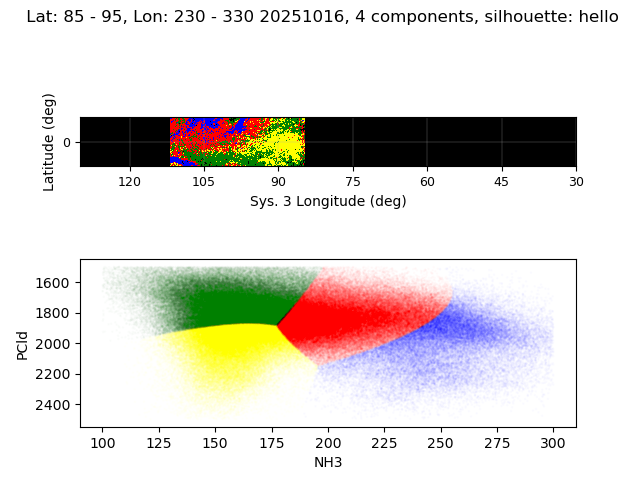
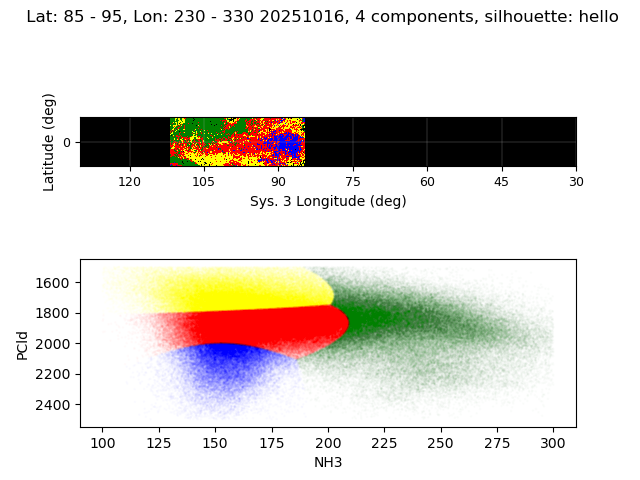
updte visualizations

Changed region(s): [[0.1875, 0.5312, 0.875, 0.875], [0.25, 0.2188, 0.5, 0.3438]]

diff --git a/scripts/plots/mapping.py b/scripts/plots/mapping.py
@@ -49,22 +49,21 @@ def plot_cluster_patch(patch, LatLims, LonLims, cmap, axis, v_min, v_max, title,
         cbar = fig.colorbar(show, ticks=tx, 
                    orientation='vertical',
                    ax=axis,fraction=0.046*im_ratio, pad=0.05)
-        #cbar.ax.set_yticklabels(np.around(tx,3))
+        cbar.ax.set_yticklabels(np.around(tx,3))
 
 
-        #cbar.set_ticks(tx)
-        #cbar.set_ticklabels(np.around(tx, 3))
-        #cbar.ax.tick_params(labelsize=6,color="k")#if iSession >1:
-        #cbar.ax.set_ylabel(cbar_title, size=6)#,labelpad=-20, y=0.5)
+        cbar.set_ticks(tx)
+        cbar.set_ticklabels(np.around(tx, 3))
+        cbar.ax.tick_params(labelsize=6,color="k")#if iSession >1:
+        cbar.ax.set_ylabel(cbar_title, size=6)#,labelpad=-20, y=0.5)
 
 
-        #cbar.ax.yaxis.set_label_coords(-1.5, 0.5)
-        #cbar.ax.yaxis.set_label_coords(-2.1, 0.5)
-        #if cbar_reverse:
-        #    cbar.ax.invert_yaxis()
+        cbar.ax.yaxis.set_label_coords(-1.5, 0.5)
+        cbar.ax.yaxis.set_label_coords(-2.1, 0.5)
+        #cbar.remove()
 
 
-def plot_patch(patch, LatLims, LonLims, cmap, axis, v_min, v_max, title, cm_num, fig = None, cbarplot = False, cbar_title = "test"):
+def plot_patch(patch, LatLims, LonLims, cmap, axis, v_min, v_max, title, cm_num, fig = None, cbarplot = True, cbar_title = "test", cbar_reverse = False):
     '''
     Purpose:
         to plot a patch with appropriate longitude/latitude scales
@@ -90,30 +89,31 @@ def plot_patch(patch, LatLims, LonLims, cmap, axis, v_min, v_max, title, cm_num,
     im_ratio = patch.shape[0]/patch.shape[1]
     
     if cbarplot:
+        print("hello world")
         cbar = fig.colorbar(show, ticks=tx, 
                    orientation='vertical',
                    ax=axis,fraction=0.046*im_ratio, pad=0.05)
-        #cbar.ax.set_yticklabels(np.around(tx,3))
+        cbar.ax.set_yticklabels(np.around(tx,3))
 
 
-        #cbar.set_ticks(tx)
-        #cbar.set_ticklabels(np.around(tx, 3))
-        #cbar.ax.tick_params(labelsize=6,color="k")#if iSession >1:
-        #cbar.ax.set_ylabel(cbar_title, size=6)#,labelpad=-20, y=0.5)
+        cbar.set_ticks(tx)
+        cbar.set_ticklabels(np.around(tx, 3))
+        cbar.ax.tick_params(labelsize=6,color="k")#if iSession >1:
+        cbar.ax.set_ylabel(cbar_title, size=6)#,labelpad=-20, y=0.5)
 
 
-        #cbar.ax.yaxis.set_label_coords(-1.5, 0.5)
-        #cbar.ax.yaxis.set_label_coords(-2.1, 0.5)
-        #if cbar_reverse:
-        #    cbar.ax.invert_yaxis()
+        cbar.ax.yaxis.set_label_coords(-1.5, 0.5)
+        cbar.ax.yaxis.set_label_coords(-2.1, 0.5)
+        if cbar_reverse:
+            cbar.ax.invert_yaxis()
 
 def create_cluster_map(axis,  n_comp, pred, input_arr, subset_shape, 
-                           latRng, lngRng, cmap, cm_num = 3):
+                           latRng, lngRng, cmap, cm_num = 3, fig = None, cbar = False):
    
     cluster_map = create_cluster_arr(input_arr, subset_shape, pred)
     
     cmap.set_under("black")
-    plot_cluster_patch(cluster_map, latRng, lngRng,  cmap, axis,  0, n_comp, "cluster map", cm_num)
+    plot_cluster_patch(cluster_map, latRng, lngRng,  cmap, axis,  0, n_comp, "cluster map", cm_num, fig, cbar)
 
 
 

diff --git a/scripts/processes.py b/scripts/processes.py
@@ -88,7 +88,7 @@ def create_map_comparison(date, keywords, param_ranges,
     cloud_map = pre.get_patch("PCld", latRng, lngRng)
     amm_map = pre.get_patch("NH3", latRng, lngRng)
     print("start cluster map")
-    MP.create_cluster_map(axis[0], n_comp, pred, input_arr, subset_shape, latRng, lngRng, cmap, cm_num)
+    MP.create_cluster_map(axis[0], n_comp, pred, input_arr, subset_shape, latRng, lngRng, cmap, cm_num, fig, True)
     print("finished cluster map")
     MP.plot_patch(cloud_map, latRng, lngRng, "Blues", axis[1], 1000, 3000,  "Cloud Pressure", cm_num, fig, True)
     print("plot first patch")
@@ -102,8 +102,8 @@ def create_map_comparison(date, keywords, param_ranges,
 
 #output_cluster_map("20251214", ["NH3", "PCld"], [[0, 300], [1000, 3000]], 5)
 #get correct filters
-#create_map_comparison("20251016", ["NH3", "PCld", "AOI", "CI"], [[100, 300], [1500,  2500], [0, 1], [0, 1]])#
-output_cluster_map_and_plot("20251016", ["NH3", "PCld", "AOI", "CI"], [[100, 300], [1500,  2500], [0, 1], [0, 1]])
+create_map_comparison("20251016", ["NH3", "PCld", "AOI", "CI"], [[100, 300], [1500,  2500], [0, 1], [0, 1]])#
+#output_cluster_map_and_plot("20251016", ["NH3", "PCld", "AOI", "CI"], [[100, 300], [1500,  2500], [0, 1], [0, 1]])
 
 
 #output_cluster_map_and_plot("20251214", ["NH3", "PCld"], [[0, 300], [1000, 3000]], 5)

diff --git a/config/config.py b/config/config.py
@@ -3,7 +3,7 @@ config = {
     'input': "data/HST/20251016UT",
     #'input': "data/L4/20251214UT",
     "output": "data/visualizations/HST/20251016UT",
-    "soft_clustering": False,
+    "soft_clustering": True,
     
 
 }
